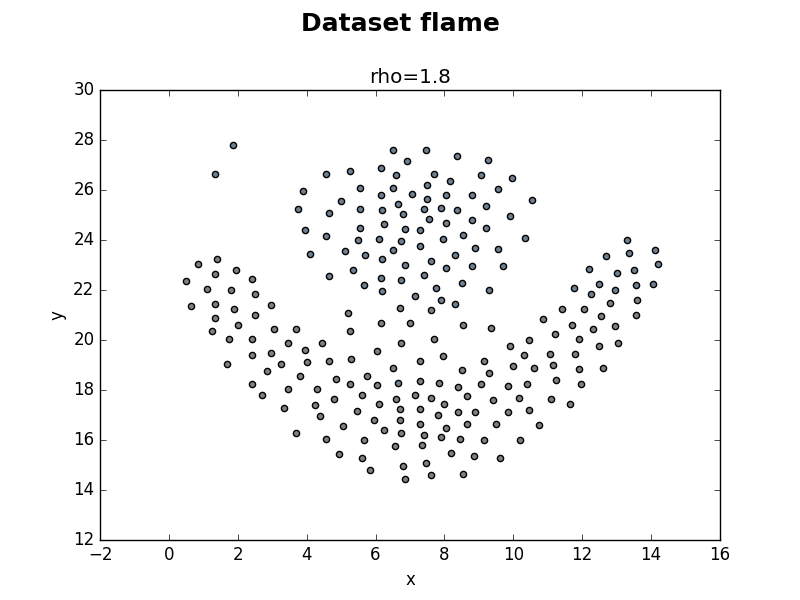
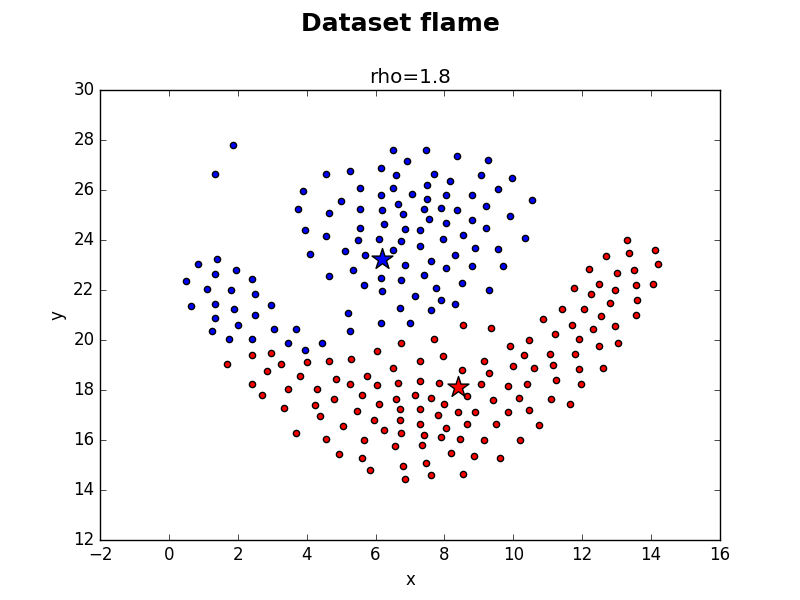
result flame

diff --git a/src/main_flame.py b/src/main_flame.py
@@ -1,0 +1,40 @@
+#!/usr/bin/python
+
+import numpy as np
+import os
+from Algorithms import Cluster
+from Database import DatabaseSimepar
+from Dissimilarity import DensityDistance
+from Database import DatabaseIris, TwoDimensionData
+
+# database = DatabaseIris()
+# a = ['Compound.txt'  , 'flame.txt' ,'D31.txt',  'jain.txt' , 'pathbased.txt' , 'R15.txt' , 'spiral.txt']
+#a = ['Aggregation.txt' ] 
+# a = ['flame.txt', 'jain.txt']
+#a = [('spiral.txt', 3)]
+#a = [('R15.txt', 15)]
+#a = [('Compound.txt', 6)]
+#a = [('pathbased.txt', 3)]
+a = [('flame.txt', 2)]
+
+results = []
+
+for f, K in a:
+    fi = '../datasets/{}'.format(f)
+    database = TwoDimensionData(fi, '\t')
+
+    base_name = os.path.basename(fi)
+    name = os.path.splitext(base_name)[0]
+
+    for rho in np.arange(1.0, 3.4, 0.2):
+    # for rho in [2.8]:
+        dissimilarity = DensityDistance(rho=rho)
+
+        cluster = Cluster(database, dissimilarity, P_size=50, K=K, max_iterations=50)
+
+        score, score_normalized = cluster.compute()
+        results.append((name, K, rho, score, score_normalized))
+
+
+for name, K, rho, score, score_normalized in results:
+    print("{};{};{};{:.8f};{:.8f}".format(name, K, rho, score, score_normalized))
